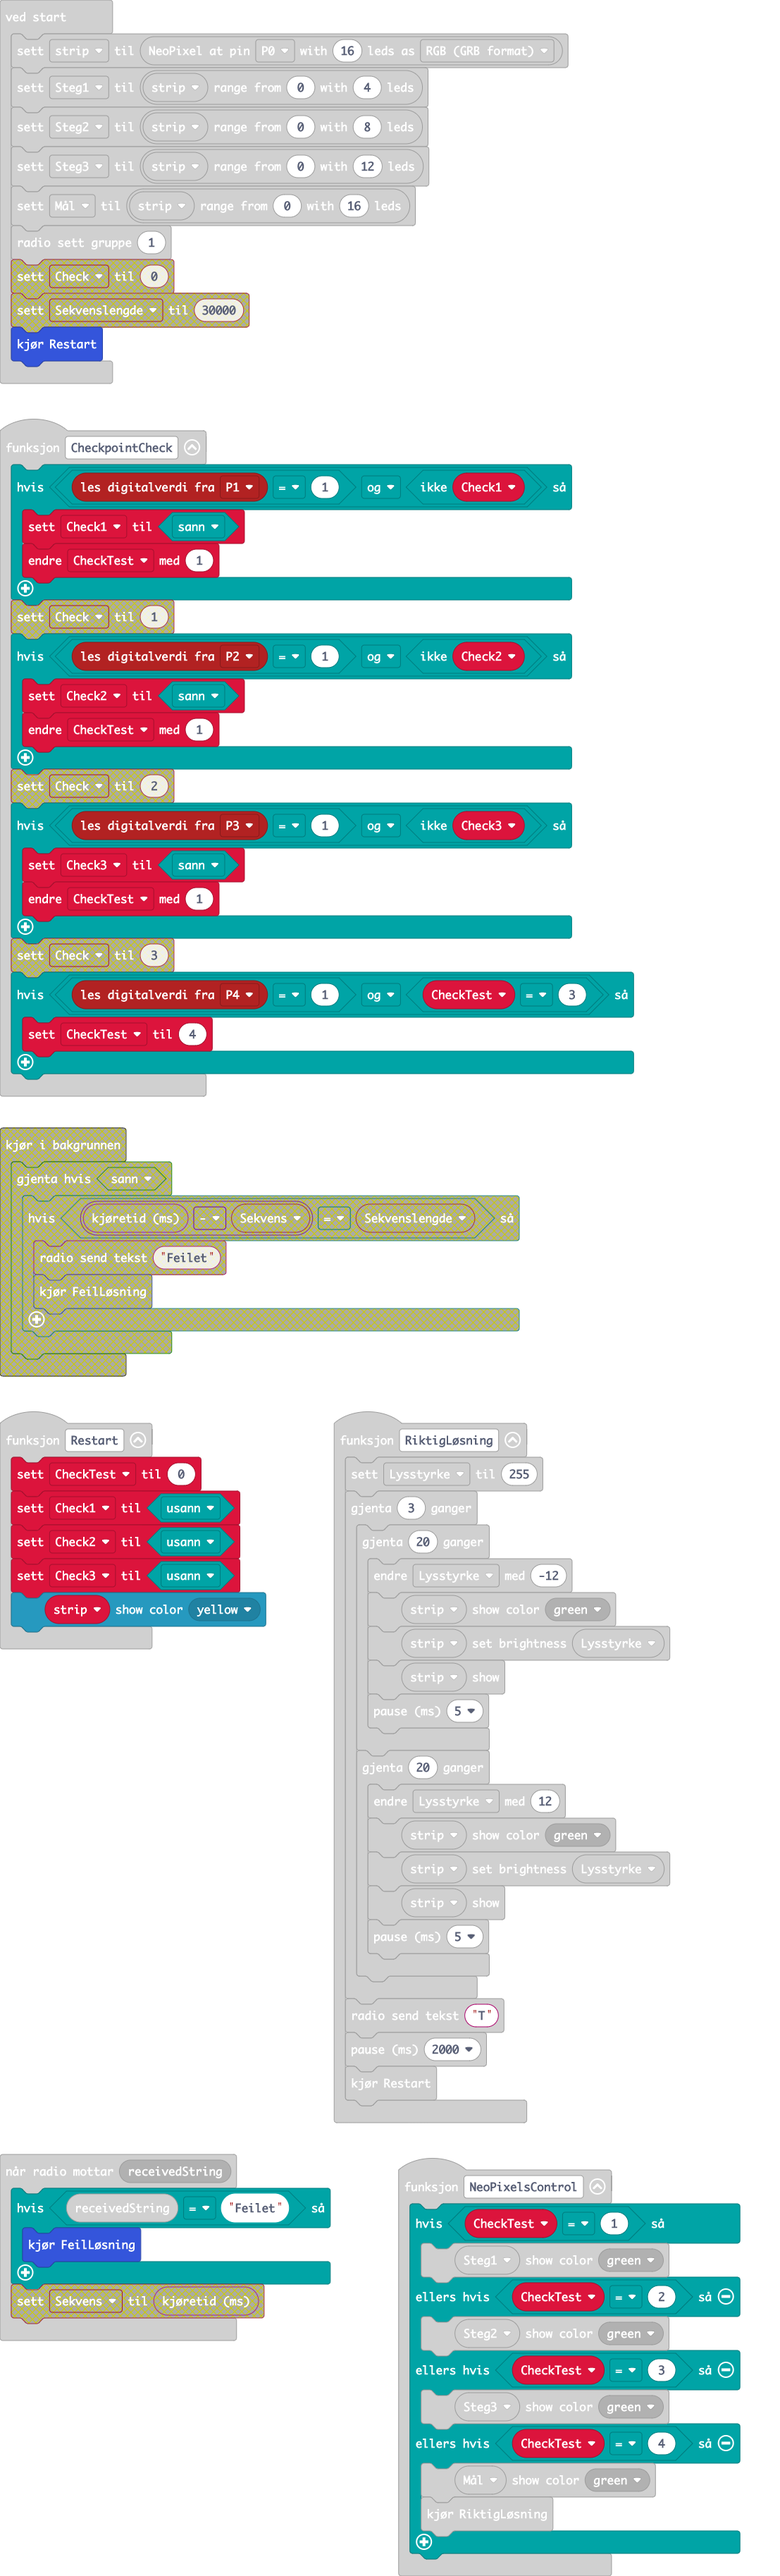
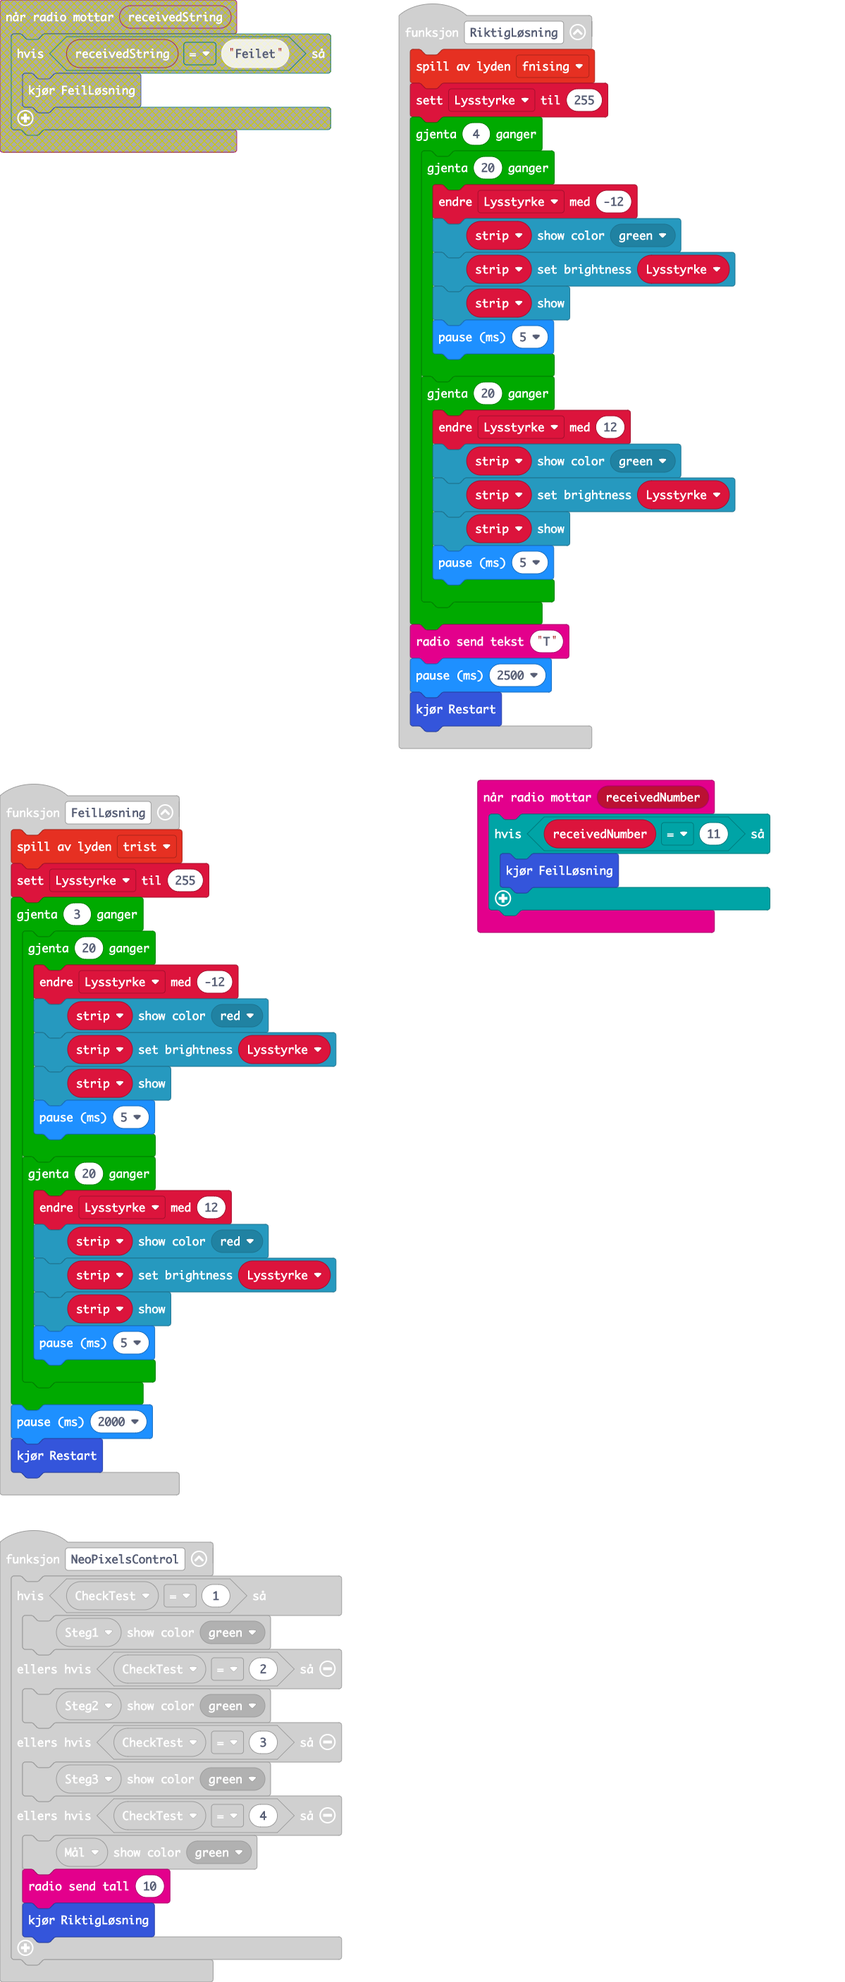
Oppdater main.blocks, main.ts

diff --git a/main.ts b/main.ts
@@ -1,6 +1,7 @@
 function RiktigLøsning () {
+    soundExpression.giggle.play()
     Lysstyrke = 255
-    for (let index = 0; index < 3; index++) {
+    for (let index = 0; index < 4; index++) {
         for (let index = 0; index < 20; index++) {
             Lysstyrke += -12
             strip.showColor(neopixel.colors(NeoPixelColors.Green))
@@ -17,9 +18,14 @@ function RiktigLøsning () {
         }
     }
     radio.sendString("T")
-    basic.pause(2000)
+    basic.pause(2500)
     Restart()
 }
+radio.onReceivedNumber(function (receivedNumber) {
+    if (receivedNumber == 11) {
+        FeilLøsning()
+    }
+})
 function Restart () {
     CheckTest = 0
     Check1 = false
@@ -28,6 +34,7 @@ function Restart () {
     strip.showColor(neopixel.colors(NeoPixelColors.Yellow))
 }
 function FeilLøsning () {
+    soundExpression.sad.play()
     Lysstyrke = 255
     for (let index = 0; index < 3; index++) {
         for (let index = 0; index < 20; index++) {
@@ -48,11 +55,6 @@ function FeilLøsning () {
     basic.pause(2000)
     Restart()
 }
-radio.onReceivedString(function (receivedString) {
-    if (receivedString == "Feilet") {
-        FeilLøsning()
-    }
-})
 function NeoPixelsControl () {
     if (CheckTest == 1) {
         Steg1.showColor(neopixel.colors(NeoPixelColors.Green))
@@ -62,6 +64,7 @@ function NeoPixelsControl () {
         Steg3.showColor(neopixel.colors(NeoPixelColors.Green))
     } else if (CheckTest == 4) {
         Mål.showColor(neopixel.colors(NeoPixelColors.Green))
+        radio.sendNumber(10)
         RiktigLøsning()
     }
 }
